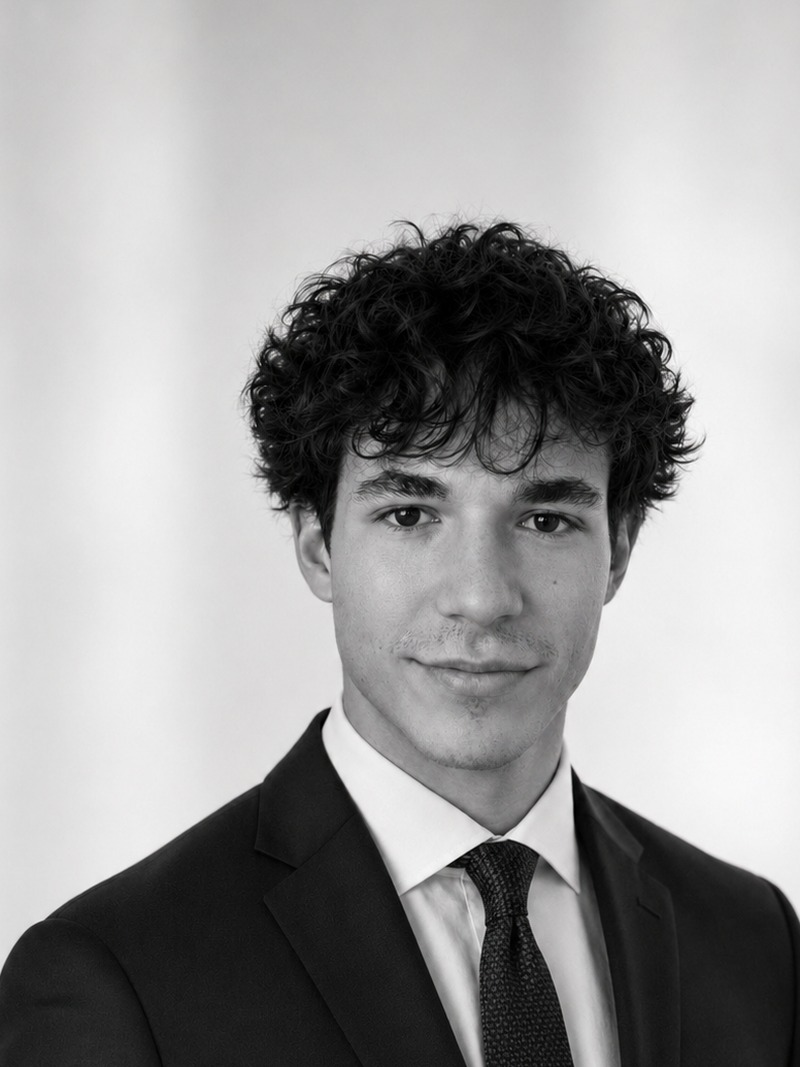
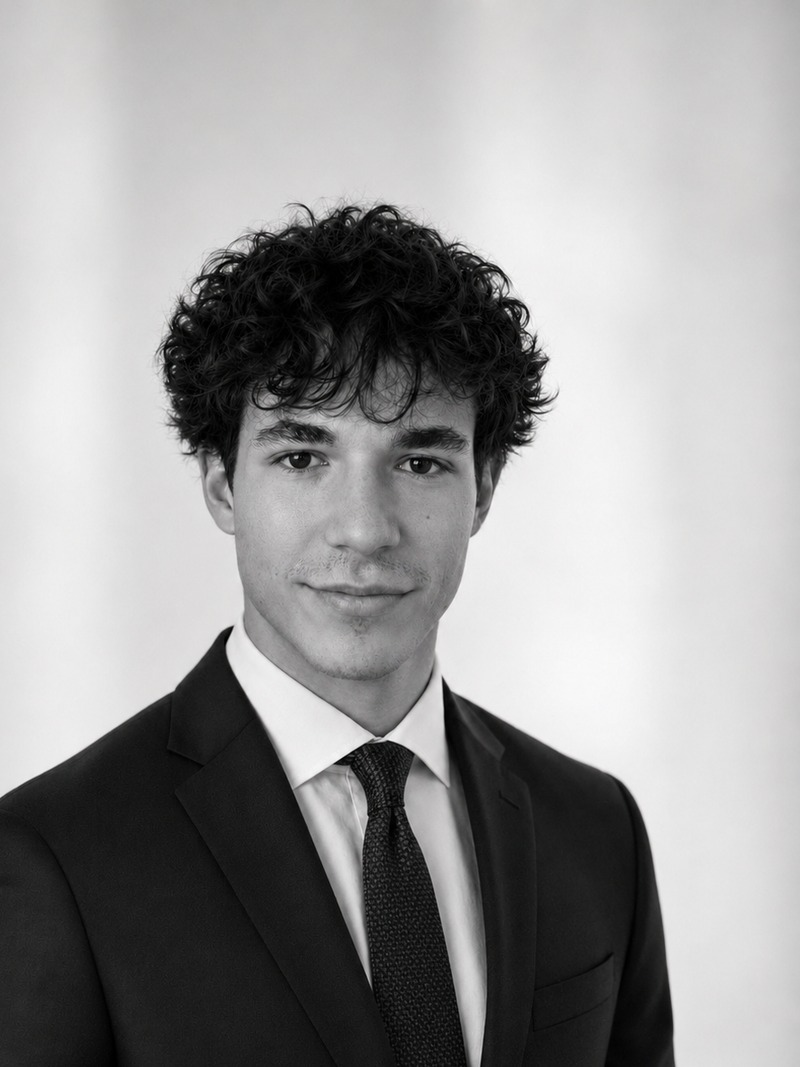
Center Max headshot, recolor Plato/Jobortunity, sharpen Revent
- max-henkes.jpg: re-cropped from full-res source with face centered
- Plato.png: recolored brand blue to navy for visual consistency
- JobortunityAI.png: recolored white text and cube to navy
- Revent: replaced low-res 175x30 PNG with text-based SVG for crisp
  rendering at any size

diff --git a/src/data/partners.js b/src/data/partners.js
@@ -52,5 +52,5 @@ export const academicPartners = [
   { id: "jobortunity-ai", name: "Jobortunity.AI", logo: "/logos/JobortunityAI.png", eventSlug: null },
   { id: "dartmouth-partners", name: "Dartmouth Partners", logo: "/logos/DartmouthPartners.png", eventSlug: null },
   { id: "plato", name: "Plato", logo: "/logos/Plato.png", eventSlug: "plato-event", scale: 1.1 },
-  { id: "revent", name: "Revent", logo: "/logos/Revent.png", eventSlug: "revent-event", scale: 0.9 },
+  { id: "revent", name: "Revent", logo: "/logos/Revent.svg", eventSlug: "revent-event", scale: 0.9 },
 ];
